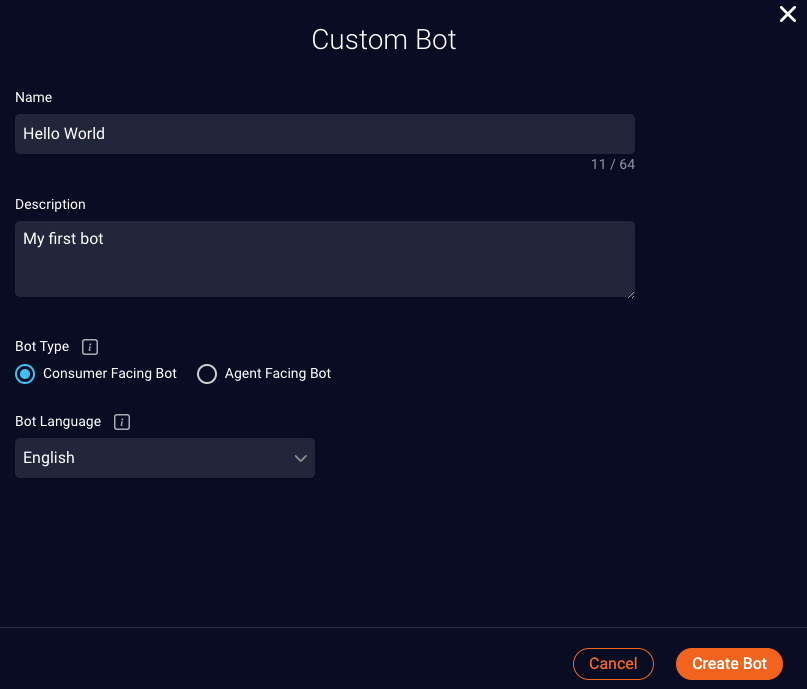
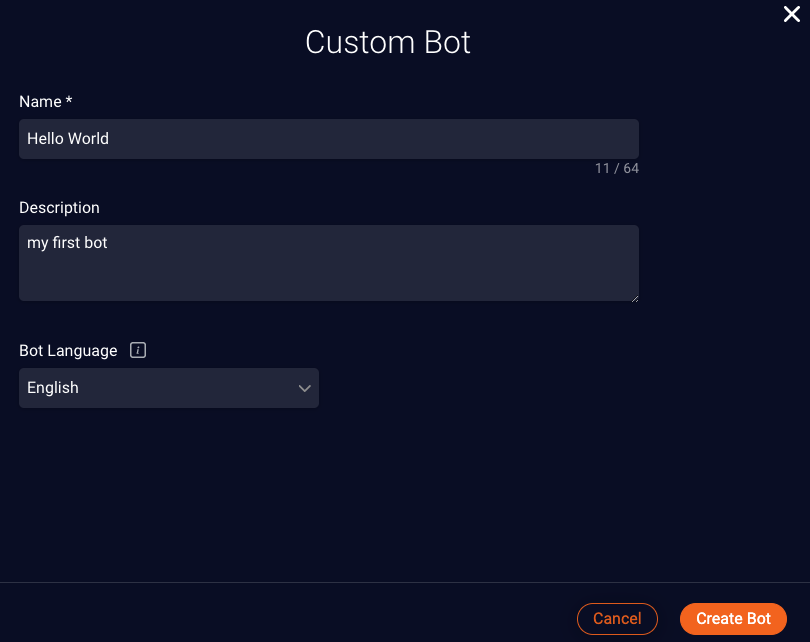
Remove doc on Bot Type field in create workflow

diff --git a/pages/documents/ConversationalAI/ConversationBuilder/Bots/BotBasics.md b/pages/documents/ConversationalAI/ConversationBuilder/Bots/BotBasics.md
@@ -41,7 +41,7 @@ Bot settings include:
 
 - **Description**: Enter a description that’s meaningful to you and others. Consider including language that identifies the bot's goal and key behaviors.
 
-- **Bot Type**: Read-only. This is either Consumer Facing Bot or Agent Advisor. A Consumer Facing bot is one that engages with the consumer in the front end. An Agent Advisor bot is one that engages with the contact center agent in LiveEngage in the back end. You specify the bot type when you create the bot, and it can’t be changed afterward.
+- **Bot Type**: Read-only. This is always Consumer Facing Bot.
 
 - **Bot Language**: Read-only. This setting determines the language-specific model for LivePerson NLU; it also supports the proper rendering of left-to-right and right-to-left languages. You specify the bot language when you create the bot, and it can’t be changed afterward.
 
